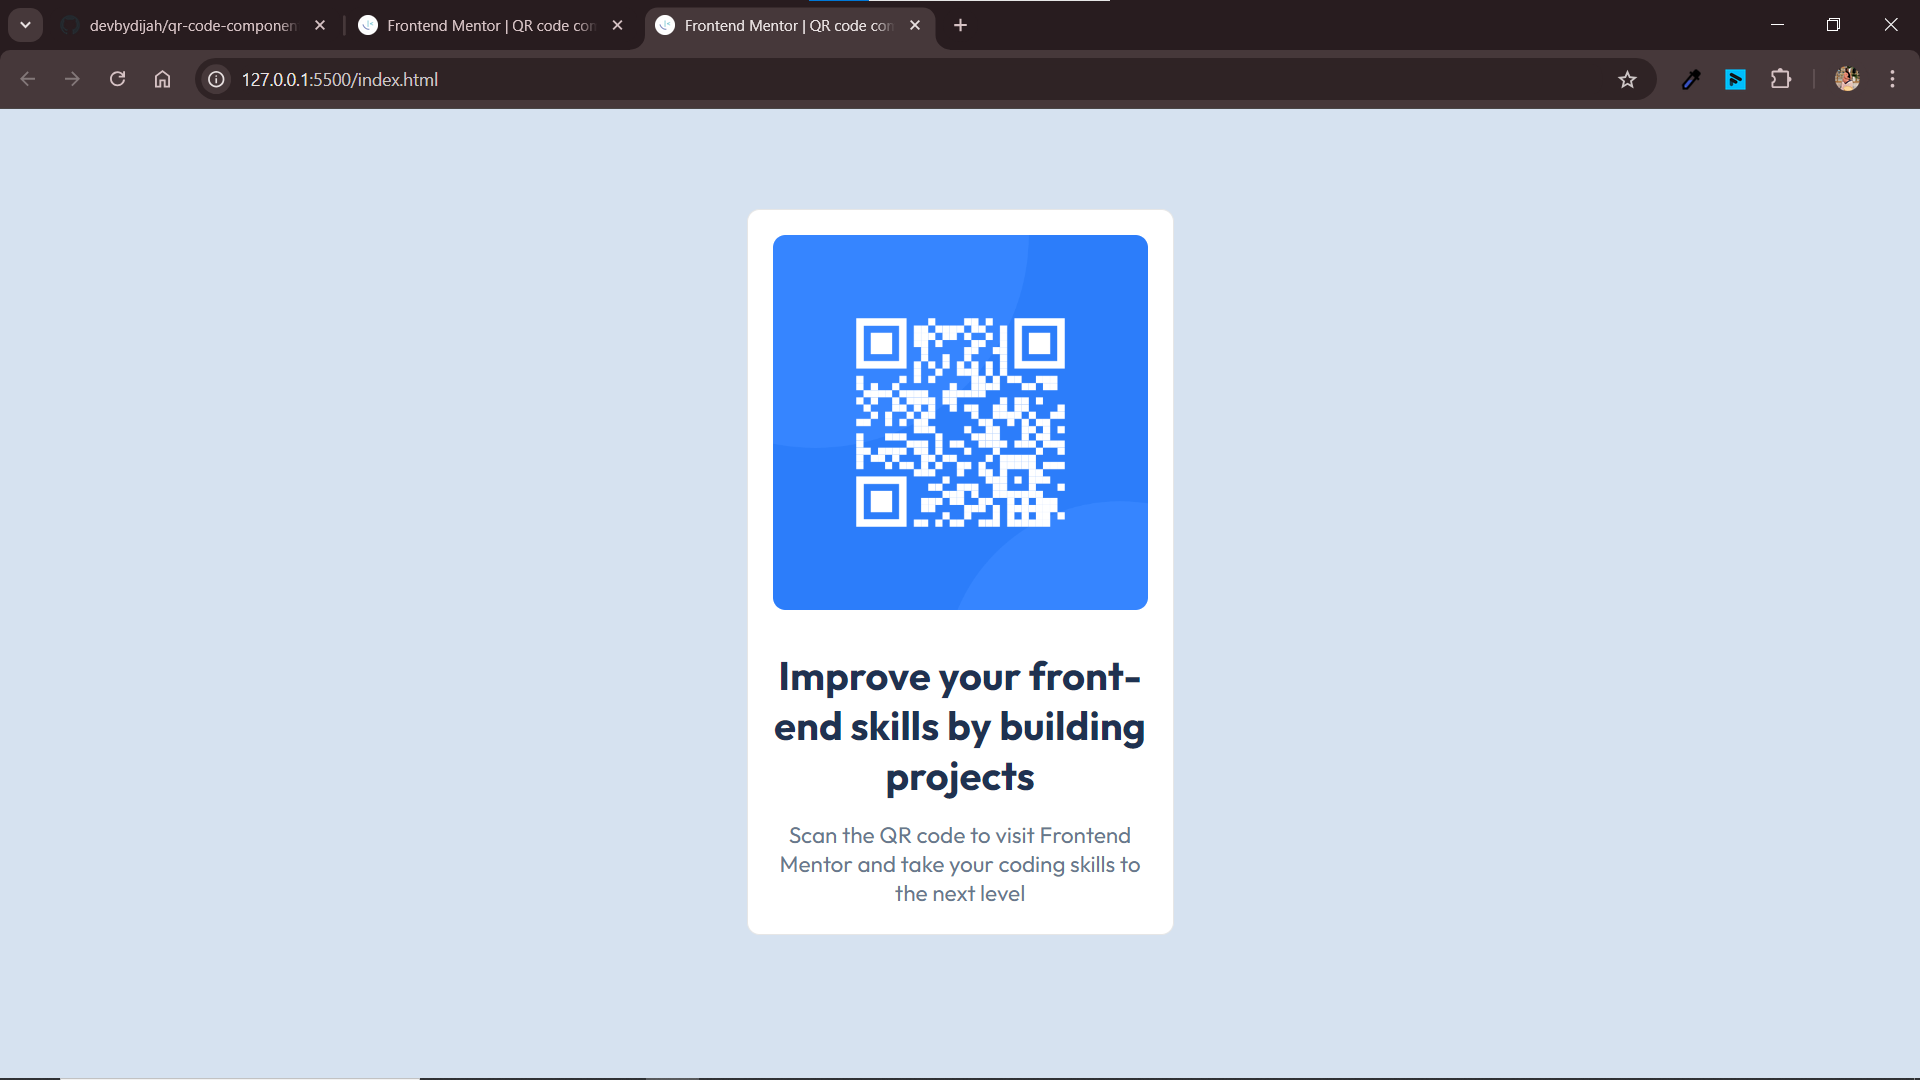
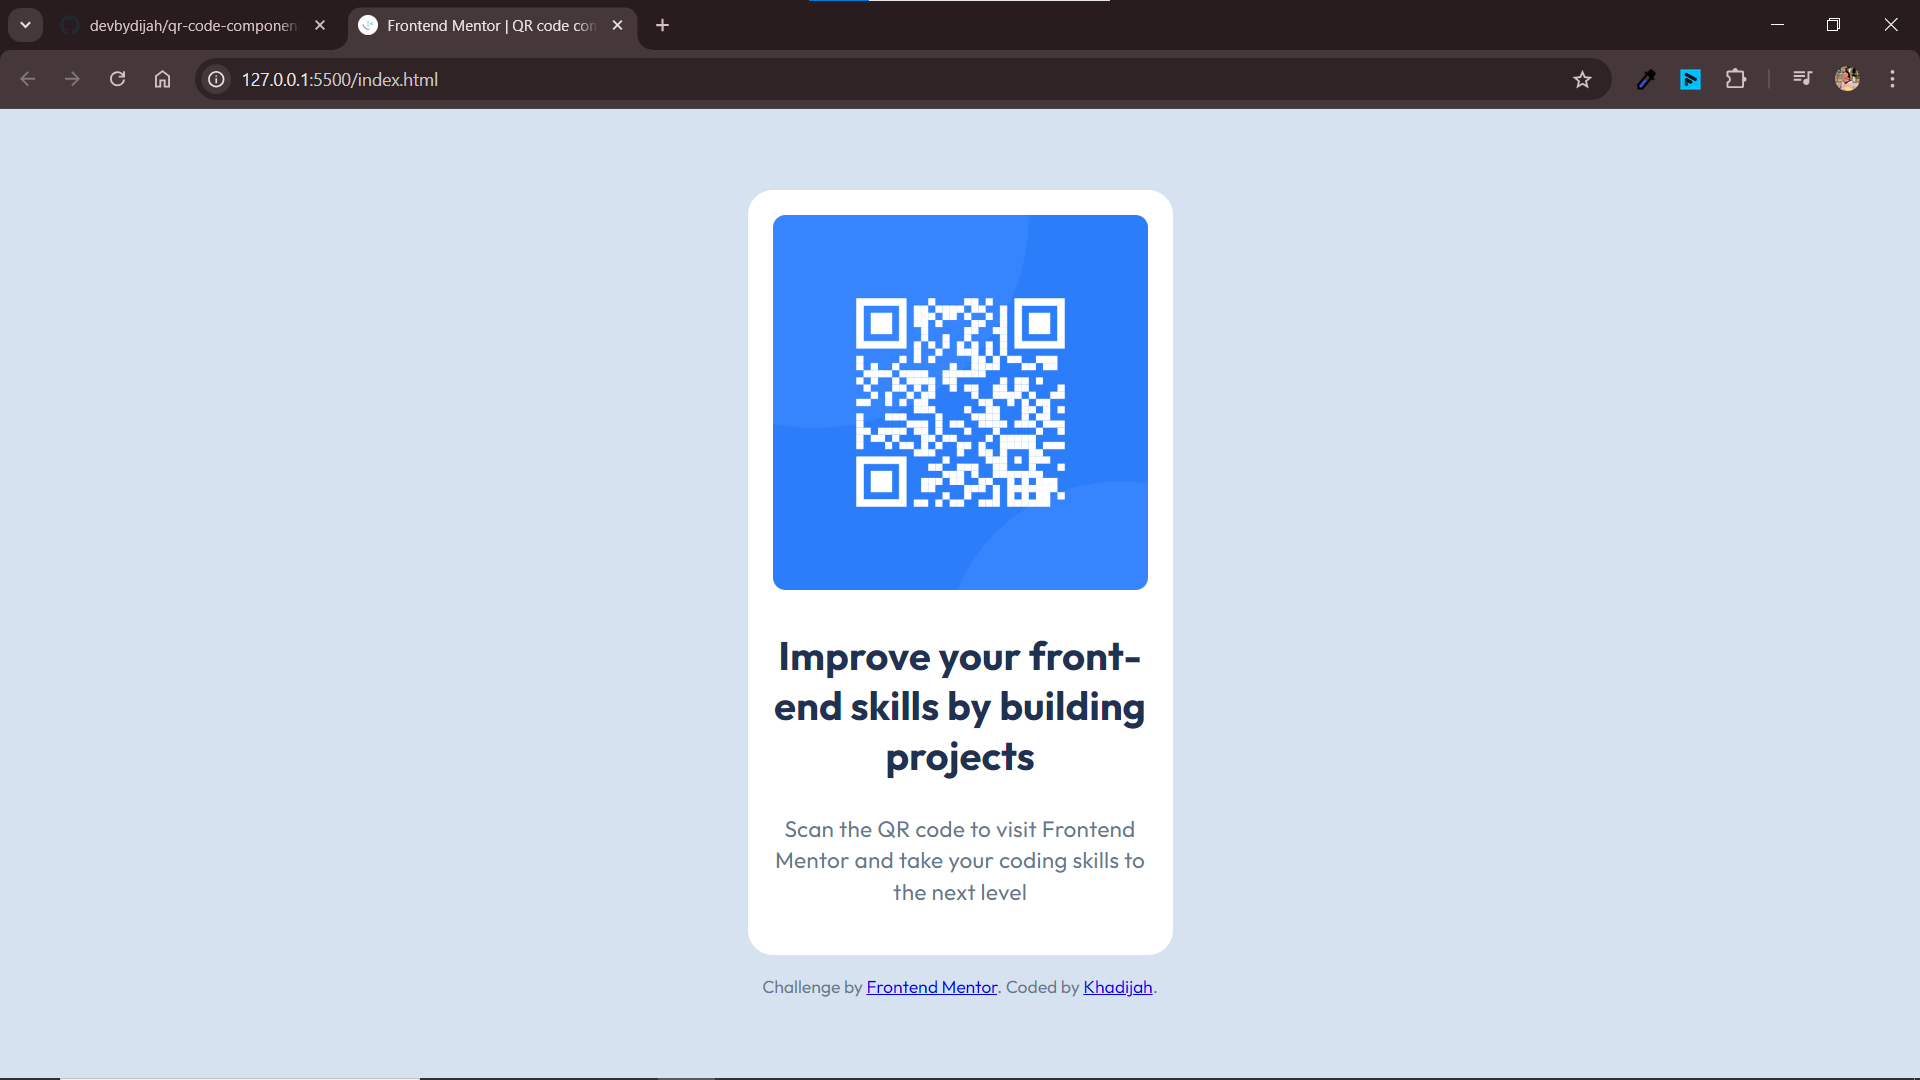
Update CSS for responsive font sizes and remove body margin

diff --git a/style.css b/style.css
@@ -7,6 +7,7 @@ body {
   justify-content: center;
   align-items: center;
   height: 100vh;
+  margin: 0; 
 }
 
 /* Image styling */
@@ -24,14 +25,14 @@ h1 {
   color: hsl(218, 44%, 22%);
   text-align: center;
   font-weight: 700;
-  font-size: 1.5rem;
+  font-size: 1.5vw;
   margin-top: 1rem;
   margin-bottom: 0.5rem;
 }
 
 /* Paragraph styling */
 p {
-  font-size: 1rem;
+  font-size: 1vw;
   font-family: "Outfit", sans-serif;
   font-optical-sizing: auto;
   font-weight: 400;
